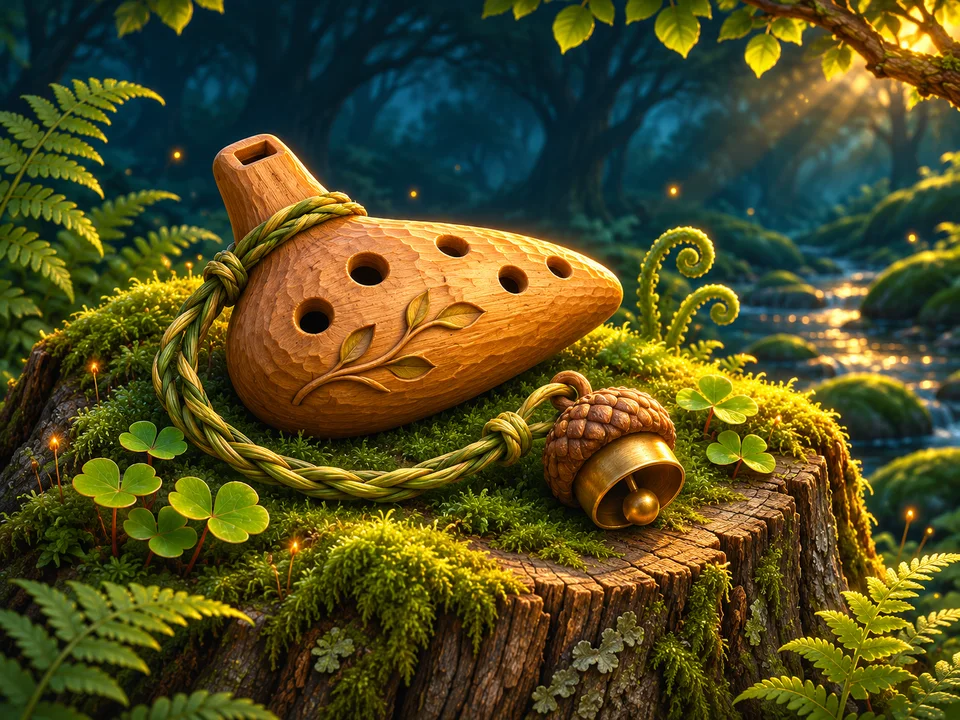
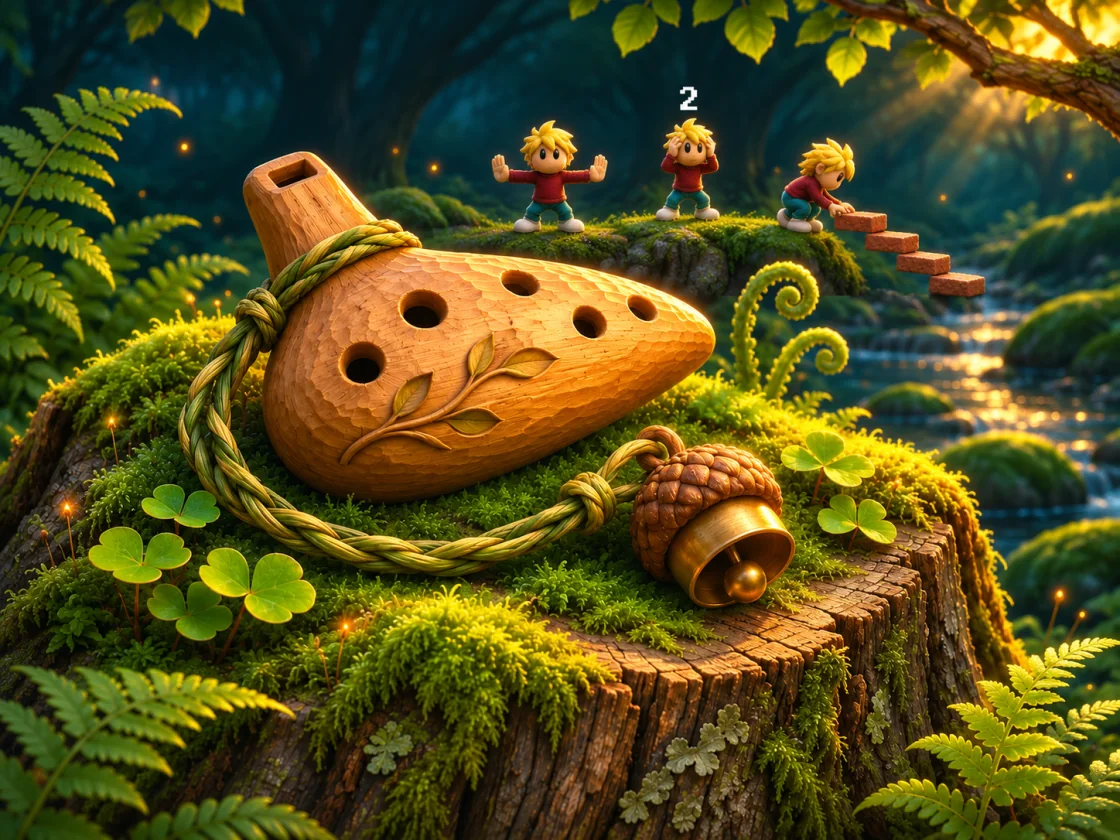
Add a Blocker, Bomber and Builder behind the woodland ocarina

diff --git a/Website/content/home.html b/Website/content/home.html
@@ -48,8 +48,8 @@
   </div>
 </section>
 
-<section class="community-music" aria-labelledby="community-music-heading">
-  <img class="woodland-still" src="/assets/forest-music.webp" alt="A carved wooden ocarina rests on a mossy stump." width="960" height="720" loading="lazy">
+<section id="music" class="community-music" aria-labelledby="community-music-heading">
+  <img class="woodland-still" src="/assets/forest-music.webp" alt="A carved ocarina rests on a mossy stump. Behind it, a Blocker holds out both arms, a Bomber counts down to two, and a Builder lays a brick." width="1120" height="840" loading="lazy">
   <div class="glade-copy"><h2 id="community-music-heading">A tune for<br>the road.</h2>
     <p class="lead">Eight tracks from Lix, by Mike Spanner (Rubix), Minim and mobius, come with the Store build.</p>
     <p>The local community preview also features six traditional tunes arranged and recorded by MandelSoft.</p>

diff --git a/Website/assets/forest-home.css b/Website/assets/forest-home.css
@@ -192,8 +192,8 @@
   padding-block: var(--clearing-pad);
 }
 @media (min-width: 801px) {
-  .home > .bring-along { --fade: clamp(48px, 6vw, 110px); }
-  .home > .bring-along .glade-copy { padding: var(--fade) clamp(24px, 3vw, 88px); }
+  .home > :is(.community-music, .bring-along) { --fade: clamp(48px, 6vw, 110px); }
+  .home > :is(.community-music, .bring-along) .glade-copy { padding: var(--fade) clamp(24px, 3vw, 88px); }
 }
 .duo-glade {
   display: grid;
@@ -240,7 +240,8 @@
     mask-image: linear-gradient(black 75%, transparent);
     margin-bottom: -26px;
   }
-  .home > .bring-along .woodland-still { height: auto; }
+  .home > :is(.community-music, .bring-along) .woodland-still { height: auto; }
+  .home > .community-music { --fade: clamp(24px, 5vw, 40px); }
   .home > .second-thoughts .woodland-still {
     mask-image: linear-gradient(transparent, black var(--fade), black 75%, transparent);
   }

diff --git a/Website/prepare_assets.py b/Website/prepare_assets.py
@@ -122,6 +122,7 @@ social.save(ASSETS / 'social.jpg', quality=91, optimize=True)
     'captures': records,
     'duoScenes': {'renderer': 'Website/render_duo.py', 'artwork': 'Illustrated graphite foldable in three poses. The interior screens use native build 110 Duo simulator captures at a 100° hinge, with the app’s reserved division and active display verified. The tent poster uses the native Duo cover screenshot at 52° and the film projects the game clock demonstration onto that outer display.', 'outputs': ['duo-book-scene.webp', 'duo-tabletop-scene.webp', 'duo-tent-scene.webp', 'duo-tent-scene.mp4']},
     'ravine': {'output': 'forest-ravine.webp', 'direction': 'A broken bridge above a dark pool. Four walkers approach the cliff while one Lix bobs in the current. Illustrated woodland scenery.'},
+    'music': {'output': 'forest-music.webp', 'tool': 'Built-in image generation', 'direction': 'Keep the carved ocarina and its acorn bell on the mossy stump. On the far bank, a Blocker holds out both arms, a Bomber has a white 2 overhead, and a Builder lays a brick step.'},
     'miner': {'output': 'forest-miner.webp', 'tool': 'Built-in image generation', 'direction': 'Replace the satchel with a blond Lix miner striking the mossy ledge with a pickaxe. Keep the miner in focus. Three distant Floaters descend under softly blurred yellow umbrellas.'},
     'detonator': {'output': 'forest-detonator.webp', 'tool': 'Built-in image generation', 'direction': 'One cheerful blond Lix considers an oversized red plunger. Two others follow a sign towards a missing bridge. Cold spruce-blue shadows, a dusky plum sky, and a copper rim light in the mossy forest.'},
     'illustration': 'Project artwork generated for this site from the approved Lix icon and woodland illustration. The creek, burrow, woodland objects, four material textures and two moss-covered button sprites are illustrations. Gameplay images use the captures listed above.',
